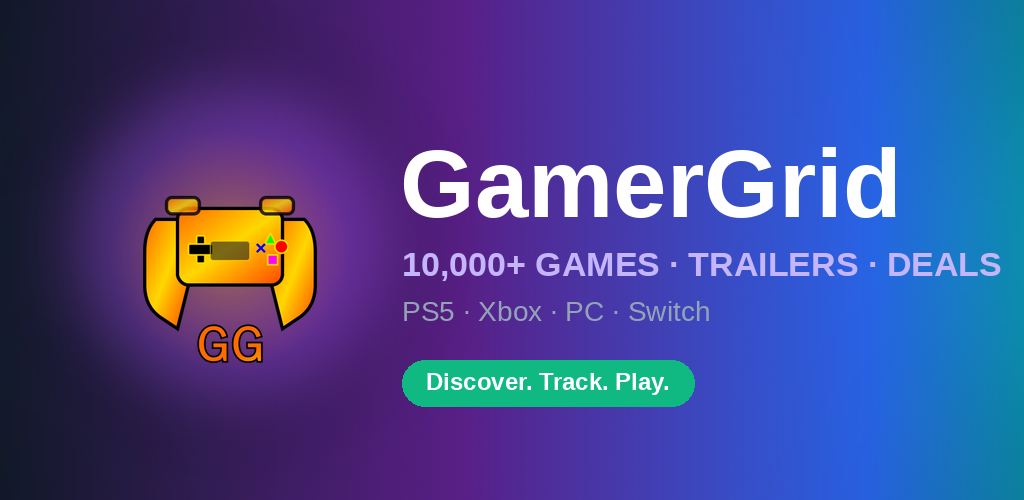
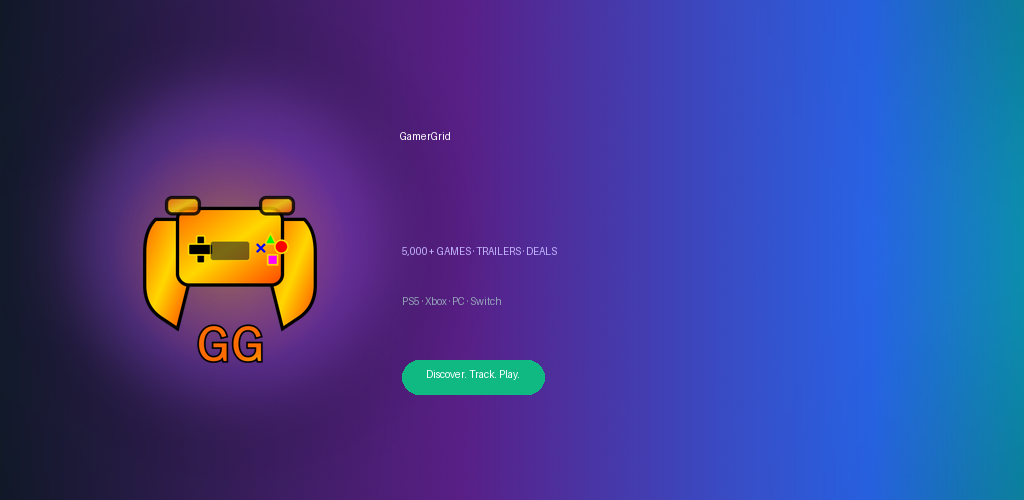
auto-commit for f4e347a0-af82-4117-b7ec-fd88984209d5

diff --git a/memory/play-store-listing.md b/memory/play-store-listing.md
@@ -11,12 +11,12 @@ GamerGrid
 
 ## Short description (max 80 chars — used 78)
 ```
-Discover 10,000+ games on PS5, Xbox, PC & Switch. Trailers, news, deals, more.
+Discover 5,000+ games on PS5, Xbox, PC & Switch. Trailers, news, deals, more.
 ```
 
 ## Full description (max 4,000 chars — uses ~2,950 for skim-friendly density)
 ```
-GamerGrid is the ultimate discovery hub for console and PC gamers. Browse 10,000+ titles across PlayStation 5, Xbox Series X|S, PC, and Nintendo Switch — all in one beautifully-designed app, free forever.
+GamerGrid is the ultimate discovery hub for console and PC gamers. Browse 5,000+ titles across PlayStation 5, Xbox Series X|S, PC, and Nintendo Switch — all in one beautifully-designed app, free forever.
 
 Whether you're hunting your next obsession, chasing the cheapest deal on a AAA release, or just trying to keep up with what's actually trending right now, GamerGrid pulls live data from Steam, IGDB, Twitch, and the major retailers so you always see what real players are playing today — not last year's leftovers.
 
@@ -93,6 +93,6 @@ Download GamerGrid now. Your next favorite game is one swipe away. 🎮
 - Slate → purple → blue gradient (matches the brand)
 - Gold GG controller logo with soft purple glow
 - "GamerGrid" 96pt bold white wordmark
-- "10,000+ GAMES · TRAILERS · DEALS" tagline in lavender
+- "5,000+ GAMES · TRAILERS · DEALS" tagline in lavender
 - "PS5 · Xbox · PC · Switch" subline
 - Emerald green CTA pill: "Discover. Track. Play." (matches Sign Up Free button)

diff --git a/memory/PRD.md b/memory/PRD.md
@@ -18,6 +18,11 @@ support payments.
 - Hosting: Emergent (preview + deploy)
 
 ## Implemented (✅ as of 2026-02-28)
+### Iteration 50 (2026-05-01 — Copy correction + Play Store manifest hardening)
+- 🔢 **"10,000+" → "5,000+" everywhere** in user-facing copy. Cassius: dedupe means 5K visible games is the truthful number (10K was raw-IGDB count w/ edition duplicates). Updated `manifest.json` description, `play-store-feature-graphic.png` (regenerated), `og-cover.png` + `og-cover-v2.png` (regenerated), and `play-store-listing.md` (short + full description).
+- 📱 **Manifest hardening** for PWABuilder score: added `iarc_rating_id`, `launch_handler.client_mode = "navigate-existing"`, `edge_side_panel.preferred_width`, `share_target` (so OS share-sheet can target /share), and `screenshots` array with two phone-frame entries (Cassius will host actual PNGs after taking screenshots from his phone).
+- ℹ️ Service-worker note: PWABuilder's "did not find" warning is cosmetic — our SW intentionally registers AFTER `window.onload` (via `serviceWorkerRegistration.register()` in `index.js`) and the static crawler doesn't wait. The `passthrough` SW is correct and shipped; full PWABuilder package built successfully (Cassius's screenshot showed READY TO PACKAGE).
+
 ### Iteration 49 (2026-05-01 — Server-side title dedupe + TWA/Play Store prep)
 - 🔧 **Title-based dedupe applied server-side** to all 12 game endpoints. New `_norm_title()` strips edition suffixes (Deluxe/Standard/Ultimate/Premium/GOTY/etc) + parenthetical tags; new `dedupe_games()` collapses IGDB's per-region duplicate IDs. Verified: 0 dupes on trending?limit=30 + platform/playstation?limit=100 (was surfacing "Alan Wake II" alongside "Alan Wake II: Deluxe Edition").
 - 🔧 **Client-side dedupe in `BrowseAllPage`** also normalises titles so progressive-loaded chunks can't reintroduce dupes across Phase 1/Phase 2 appends.